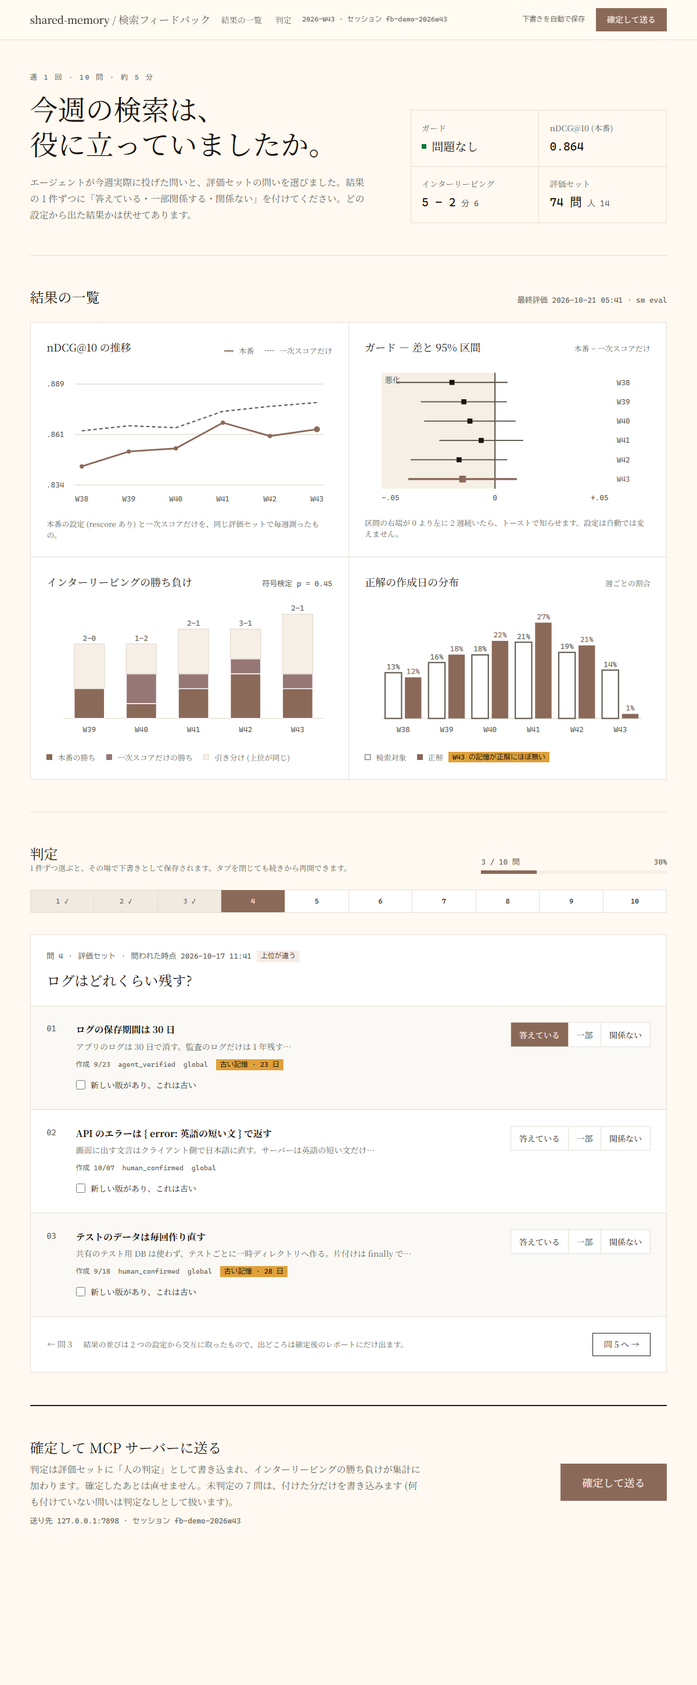
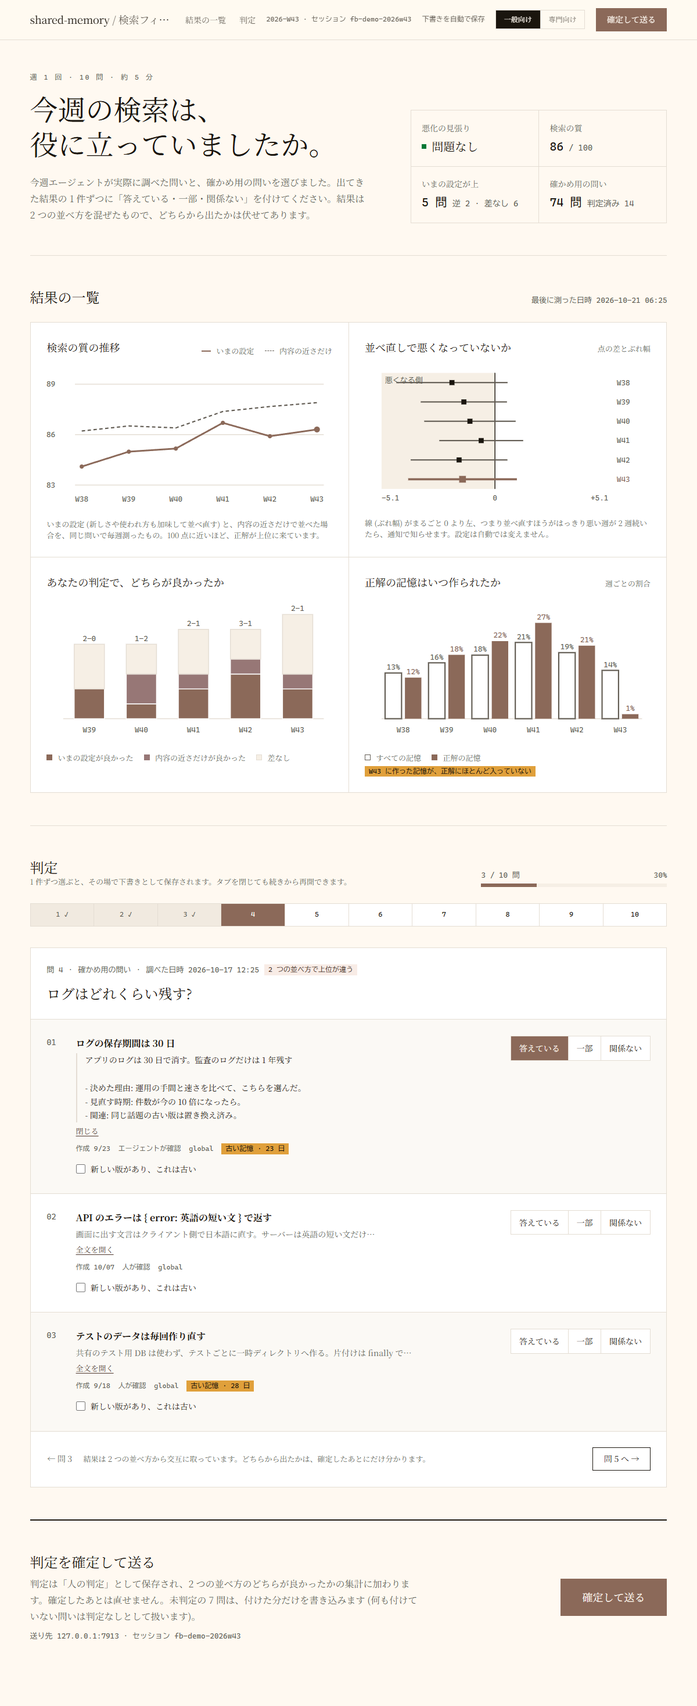
トーストとレポートを一般向けの言葉にし、README を新しい画面に合わせる
- sm eval のトースト: 検索の質を 100 点満点で、悪化の見張り・設定の見直しの要否を専門用語なしで出す
- sm feedback のトースト: 判定の依頼と目安の時間を出す
- レポートの冒頭に一般向けの「まとめ」を足す (詳しい数値はその下にそのまま)
- README (日本語・英語) に一般向け・専門向けの切り替えと全文の開閉を書き、画面のキャプチャを撮り直す
- 抜粋が「…」で終わっているときは、全文の有無で「…」を重ねない

diff --git a/packages/core/src/eval-report.ts b/packages/core/src/eval-report.ts
@@ -40,11 +40,55 @@ function primaryBetter(
     .slice(0, WORSE_LIMIT);
 }
 
-/** 人が読む Markdown のレポート */
+// ---- 一般向けの言い換え (トーストとレポートの冒頭のまとめで使う) ----
+// 本番 → いまの設定、一次スコアだけ → 内容の近さだけ、nDCG@10 → 検索の質 (100 点満点)、
+// 95% 区間 → ぶれ幅、ガード → 見張り。フィードバックの画面の一般向けと同じ言葉にそろえる。
+
+/** 0〜1 の値を 100 点満点の整数にする */
+export function points(x: number): number {
+  return Math.round(x * 100);
+}
+
+/** 差を点で (小数 1 桁、符号付き) */
+function pointsDiff(x: number): string {
+  const v = Math.abs(x * 100).toFixed(1);
+  return (x > 0 ? "+" : x < 0 ? "−" : "±") + v + " 点";
+}
+
+/** 見張り (ガード) の判定を一般向けの言葉にする */
+export function plainGuard(run: Pick<EvalRun, "guard">): string {
+  if (run.guard.alert) return "悪くなっている (2 週続けて)";
+  if (run.guard.worse) return "悪化の兆し (今週だけ)";
+  return "問題なし";
+}
+
+/** 見直す条件を一般向けの言葉にする */
+export function plainReview(run: Pick<EvalRun, "review">): string {
+  return run.review.ready ? "検討の時期 (条件がそろった)" : "まだ早い";
+}
+
+/** 一般向けのまとめ (Markdown の箇条書きの中身) */
+export function plainSummaryLines(run: EvalRun): string[] {
+  const effect =
+    run.diff.lo > 0 ? "良くなっている" : run.diff.hi < 0 ? "悪くなっている" : "はっきりした差はない";
+  return [
+    `検索の質 (100 点満点、上位 10 件に正解がどれだけ上の方に来たか): いまの設定 ${points(run.production.ndcg10)} 点 / 内容の近さだけ ${points(run.primary.ndcg10)} 点`,
+    `新しさや使われ方で並べ直した効果: ${effect} (差 ${pointsDiff(run.diff.mean)}、ぶれ幅 ${pointsDiff(run.diff.lo)} 〜 ${pointsDiff(run.diff.hi)})`,
+    `並べ直しで悪くなっていないかの見張り: ${plainGuard(run)}。設定は自動では変えない`,
+    `あなたの判定 (累計): いまの設定が良かった ${run.interleave.wins} 問 / 内容の近さだけが良かった ${run.interleave.losses} 問 / 差なし ${run.interleave.ties} 問`,
+    `並べ直しの設定の見直し: ${plainReview(run)} (人が判定した問い ${run.review.human_n} / 150 問)`,
+  ];
+}
+
+/** 人が読む Markdown のレポート。冒頭に一般向けのまとめ、そのあとに専門向けの詳しい数値 */
 export function renderReport(run: EvalRun, perQuestion: PerQuestion[], questions: EvalQuestion[]): string {
   const L: string[] = [];
   L.push(`# 評価レポート (${run.at})`, "");
   L.push(`正解のある問い: ${run.n} 件`, "");
+
+  L.push("## まとめ", "");
+  for (const line of plainSummaryLines(run)) L.push(`- ${line}`);
+  L.push("", "以下は専門向けの詳しい数値 (本番 = いまの設定、一次スコアだけ = 内容の近さだけ)。", "");
 
   L.push("## 指標 (問いの平均)", "");
   L.push("| 設定 | nDCG@10 | Recall@5 | MRR@10 |", "| --- | --- | --- | --- |");

diff --git a/packages/core/test/eval-report.test.ts b/packages/core/test/eval-report.test.ts
@@ -188,3 +188,26 @@ test("summaryLines: 数行の要約に指標・ガード・インターリービ
   const alert = summaryLines(baseRun({ guard: { worse: true, alert: true, reason: "理由のダミー" } })).join("\n");
   assert.match(alert, /ガード: 警告あり \(理由のダミー\)/);
 });
+
+test("renderReport: 冒頭に一般向けのまとめ (点数・並べ直しの効果・見張り・判定・見直し) があり、詳しい数値より前に来る", () => {
+  const md = renderReport(baseRun(), [], []);
+  const head = md.split("## 指標 (問いの平均)")[0]!;
+  assert.match(head, /## まとめ/);
+  assert.match(head, /いまの設定 81 点 \/ 内容の近さだけ 70 点/);
+  assert.match(head, /並べ直した効果: 良くなっている \(差 \+11\.1 点、ぶれ幅 \+2\.3 点 〜 \+20\.5 点\)/);
+  assert.match(head, /見張り: 問題なし/);
+  assert.match(head, /いまの設定が良かった 9 問 \/ 内容の近さだけが良かった 4 問 \/ 差なし 2 問/);
+  assert.match(head, /見直し: まだ早い \(人が判定した問い 40 \/ 150 問\)/);
+  const summary = head.split("## まとめ")[1]!.split("以下は専門向け")[0]!;
+  assert.doesNotMatch(summary, /nDCG|ガード|本番|一次スコア|インターリービング|95%/);
+
+  const bad = renderReport(
+    baseRun({ diff: { mean: -0.05, lo: -0.08, hi: -0.01, win: 1, lose: 5, tie: 0 }, guard: { worse: true, alert: true, reason: "x" } }),
+    [],
+    [],
+  );
+  assert.match(bad, /並べ直した効果: 悪くなっている \(差 −5\.0 点/);
+  assert.match(bad, /見張り: 悪くなっている \(2 週続けて\)/);
+  const unclear = renderReport(baseRun({ diff: { mean: 0, lo: -0.02, hi: 0.02, win: 0, lose: 0, tie: 12 } }), [], []);
+  assert.match(unclear, /並べ直した効果: はっきりした差はない \(差 ±0\.0 点/);
+});

diff --git a/packages/indexer/test/feedback-cli.test.ts b/packages/indexer/test/feedback-cli.test.ts
@@ -267,15 +267,22 @@ test("openCommand: Windows は cmd /c start \"\" \"<url>\"、macOS は open、Li
   assert.deepEqual(openCommand(url, "linux"), { file: "xdg-open", args: [url], verbatim: false });
 });
 
-test("evalNotice: ガードの判定・本番の nDCG@10・見直す条件を本文にする", () => {
+test("evalNotice: 見張りの判定・検索の質 (100 点満点)・見直す条件を、専門用語を使わずに本文にする", () => {
   const run = {
     production: { ndcg10: 0.71234, recall5: 0, mrr10: 0 },
     guard: { worse: true, alert: true, reason: "dummy" },
     review: { ready: false },
   } as unknown as EvalRun;
   const n = evalNotice(run);
-  assert.match(n.body, /ガード: 警告あり/);
-  assert.match(n.body, /本番 nDCG@10 0\.712/);
-  assert.match(n.body, /見直す条件: そろっていない/);
+  assert.match(n.body, /検索の質 71 点 \(100 点満点\)/);
+  assert.match(n.body, /悪化の見張り: 悪くなっている \(2 週続けて\)/);
+  assert.match(n.body, /設定の見直し: まだ早い/);
+  assert.match(n.body, /レポートを確かめてください/);
+  assert.doesNotMatch(n.body, /nDCG|ガード|本番|一次スコア/);
   assert.equal(n.url, undefined);
+
+  const ok = evalNotice({ ...run, guard: { worse: false, alert: false, reason: null }, review: { ready: true } } as unknown as EvalRun);
+  assert.match(ok.body, /悪化の見張り: 問題なし/);
+  assert.match(ok.body, /設定の見直し: 検討の時期/);
+  assert.doesNotMatch(ok.body, /レポートを確かめて/);
 });

diff --git a/packages/indexer/src/notify.ts b/packages/indexer/src/notify.ts
@@ -3,7 +3,7 @@
 // (呼び出し側が標準出力に出す)。
 import { execFile, spawn } from "node:child_process";
 import { fileURLToPath } from "node:url";
-import type { EvalRun } from "@shared-memory/core";
+import { plainGuard, plainReview, points, type EvalRun } from "@shared-memory/core";
 
 export type Notice = { title: string; body: string; url?: string };
 
@@ -65,12 +65,14 @@ export function openUrl(url: string): Promise<boolean> {
   });
 }
 
-/** sm eval --notify の本文: ガードの判定・本番の nDCG@10・見直す条件 */
+/**
+ * sm eval --notify の本文: 見張り (ガード) の判定・検索の質 (本番の nDCG@10 を 100 点満点で)・見直す条件。
+ * 専門用語を使わない言葉にする (フィードバックの画面の一般向けと同じ言い換え)
+ */
 export function evalNotice(run: EvalRun): Notice {
-  const guard = run.guard.alert ? "警告あり" : "警告なし";
-  const review = run.review.ready ? "そろっている" : "そろっていない";
+  const check = run.guard.alert ? "。レポートを確かめてください" : "";
   return {
-    title: "shared-memory: 週の評価",
-    body: `ガード: ${guard} / 本番 nDCG@10 ${run.production.ndcg10.toFixed(3)} / 見直す条件: ${review}`,
+    title: "shared-memory: 今週の検索の測定",
+    body: `検索の質 ${points(run.production.ndcg10)} 点 (100 点満点) / 悪化の見張り: ${plainGuard(run)} / 設定の見直し: ${plainReview(run)}${check}`,
   };
 }

diff --git a/packages/indexer/src/cli.ts b/packages/indexer/src/cli.ts
@@ -245,8 +245,8 @@ const COMMANDS: Record<string, Command> = {
       const base = { status: "created", session_id: r.session.id, questions: n };
       if (args.notify) {
         const ok = await notify({
-          title: "shared-memory: 今週の判定",
-          body: `判定する問いが ${n} 件あります。クリックで画面を開きます`,
+          title: "shared-memory: 今週の検索の判定",
+          body: `今週の検索結果が役に立ったか、${n} 問の判定をお願いします (約 ${Math.max(1, Math.round(n / 2))} 分)。クリックで画面を開きます`,
           url: r.url,
         });
         // 定期タスクは標準出力をログに残すので、知らせられたときは URL (合言葉入り) を出さない

diff --git a/packages/mcp-server/static/feedback.js b/packages/mcp-server/static/feedback.js
@@ -688,7 +688,7 @@
       const openKey = it.qid + "\u0000" + c.id;
       const isOpen = hasMore && expanded.has(openKey);
       const bodyId = name + "-body";
-      const excerptEl = h("p", { class: "result-excerpt", hidden: isOpen }, c.excerpt + (hasMore ? "…" : ""));
+      const excerptEl = h("p", { class: "result-excerpt", hidden: isOpen }, c.excerpt + (hasMore && !c.excerpt.endsWith("…") ? "…" : ""));
       const fullEl = hasMore ? h("div", { class: "result-body", id: bodyId, hidden: !isOpen }, full) : null;
       let toggle = null;
       if (hasMore) {

diff --git a/docs/design/interfaces.md b/docs/design/interfaces.md
@@ -262,7 +262,7 @@ eval:
 | `gc` | `tiers.ts` の `runGc` |
 | `import <file.jsonl> [--dry-run] [--source-agent <a>]` | `import.ts` |
 | `search <query> [--scope s] [--limit n]` | `searchMemories` (動作確認用)。1 行表示は `N. title [id] (scope, score x.xxx, YYYY-MM-DD 作成)` で、`freshness.stale` なら末尾に ` [古い記憶: N 日前]`。`logSearch` (`source: "cli"`) で記録する |
-| `eval [--notify]` | `eval-command.ts` の `runEvalCommand`。`readEvalSet` (空なら「評価セットがありません…」で終了コード 1) → 本番 (`cfg`) と一次スコアだけ (`primaryOnlyConfig(cfg)`) の Searcher (`searchMemories` を `asOf` 付きで直接呼び、上位 10 件の id) → `readHistory`・`interleaveTotals` → `runEvaluation` → `appendHistory` → `<evalDir>/reports/<ローカルの YYYY-MM-DD>.md` に `renderReport` を書く。標準出力は `summaryLines` とレポートの場所 (`--json` なら `EvalRun`)。ガードが警告でも終了コードは 0。`--notify` で `notify.ts` の `notify(evalNotice(run))` (Windows のトースト。ガード・本番の nDCG@10・見直す条件)。アクセスもログも書かない |
+| `eval [--notify]` | `eval-command.ts` の `runEvalCommand`。`readEvalSet` (空なら「評価セットがありません…」で終了コード 1) → 本番 (`cfg`) と一次スコアだけ (`primaryOnlyConfig(cfg)`) の Searcher (`searchMemories` を `asOf` 付きで直接呼び、上位 10 件の id) → `readHistory`・`interleaveTotals` → `runEvaluation` → `appendHistory` → `<evalDir>/reports/<ローカルの YYYY-MM-DD>.md` に `renderReport` を書く。標準出力は `summaryLines` とレポートの場所 (`--json` なら `EvalRun`)。ガードが警告でも終了コードは 0。`--notify` で `notify.ts` の `notify(evalNotice(run))` (Windows のトースト。`plainGuard`・`points`・`plainReview` で、専門用語を使わずに見張りの判定・検索の質の点数・見直しの要否)。アクセスもログも書かない |
 | `eval import-lab <file.jsonl>` | `importLabCommand`。`fromLabEvalJsonl` で読み、`questionKey` が既にある問いは飛ばして `writeEvalSet`。取り込んだ数・飛ばした数・総数を出す |
 | `feedback [--notify] [--days n]` | `feedback-command.ts` の `runFeedbackCommand`。過去 `days` 日 (既定 7) の `readLogs` のうち `source: "mcp"` の search と `readEvalSet` から `createFeedbackSession` (本番と一次スコアだけの `SessionSearcher`、`supersededAtMap`)。材料が無ければ「今週は判定する問いがありません」で終了コード 0、セッションは作らない。URL は `http://<mcp.host>:<mcp.port>/feedback/<id>?t=<token>`。既定はブラウザーで開いて (`openUrl`) 終わる。`--notify` はトーストで知らせ、知らせられたときは URL (合言葉入り) を出さない。知らせられなければ (Windows 以外を含む) URL を出す。`readLogs` 以外の StatsStore は使わない |
 
@@ -281,18 +281,19 @@ eval:
 
 ### フィードバックの道 (`packages/mcp-server/src/feedback-routes.ts`)
 
-`/mcp` と同じポートで、`handleFeedback(req, res, url, { dir: evalDir(cfg), staticDir })` が `/feedback/` で始まる道を受け持つ。Host ヘッダーの確認は `/mcp` と同じく先に効く。CORS は開けない (画面と受け口が同じオリジン)。**MCP のツールとしては公開しない** (エージェントが「人の判定」を名乗って書けないようにするため)。セッションを作る道は持たない (作るのは CLI の `createFeedbackSession` だけ)。
+`/mcp` と同じポートで、`handleFeedback(req, res, url, { dir: evalDir(cfg), staticDir, readBodies })` が `/feedback/` で始まる道を受け持つ。Host ヘッダーの確認は `/mcp` と同じく先に効く。CORS は開けない (画面と受け口が同じオリジン)。**MCP のツールとしては公開しない** (エージェントが「人の判定」を名乗って書けないようにするため)。セッションを作る道は持たない (作るのは CLI の `createFeedbackSession` だけ)。
 
 | 道 | 応答 |
 | --- | --- |
 | `GET /feedback/<id>` | 画面の HTML (`static/feedback.html`)。`Content-Security-Policy` は `default-src 'self'` などで外部の読み込みを許さない |
 | `GET /feedback/static/<feedback.html\|feedback.css\|feedback.js>` | 静的ファイル (許可リストの 3 つだけ。ほかは 404) |
-| `GET /feedback/<id>/data?t=<token>` | `{ session: publicView(s), dashboard: { history: EvalRun[] (最新 12 件、古い順), interleave: { wins, losses, ties, sessions, p }, created_dist: 最新の EvalRun の created_dist \| null, eval_set: { questions, human } } }` |
+| `GET /feedback/<id>/data?t=<token>` | `{ session: publicView(s) (カードに body を足したもの), dashboard: { history: EvalRun[] (最新 12 件、古い順), interleave: { wins, losses, ties, sessions, p }, created_dist: 最新の EvalRun の created_dist \| null, eval_set: { questions, human } } }` |
 | `POST /feedback/<id>/draft?t=<token>` | 本文 `{ "draft": Draft }` → `saveDraft` → 200 `{ "status": "ok" }` |
 | `POST /feedback/<id>/submit?t=<token>` | 本文 `{ "draft"?: Draft }` (無ければ保存済みの下書き) → `confirmSession` → 200 `{ "status": "ok", "written": n }` |
 
 - 失敗: `<id>` が `/^[A-Za-z0-9_-]{1,64}$/` でないかセッションが無い 404、合言葉が違う 403 (比較は `timingSafeEqual`)、確定済み 409、Content-Type が `application/json` でない 415、本文が JSON でないか形が違う 400、大きすぎる 413、メソッド違い 405。応答はすべて `Cache-Control: no-store`。
 - 画面とデータの読み出しはアクセスもログも書かない (StatsStore を使わない)。
+- `readBodies?: (ids: readonly string[]) => Promise<ReadonlyMap<string, string>>` … あれば GET data のときにカードへ `body` (記憶の本文、`BODY_MAX_CHARS` = 4,000 字で切って「…」) を足す。セッションのファイルには入れない。app.ts は `scanMemories(cfg)` でファイルを直接読む。投げたら警告を出して body なしで返す。画面は body が抜粋より長いカードにだけ「全文を開く」を出す。
 
 ## 13. `tiers.ts` (decay / gc)
 
@@ -365,7 +366,8 @@ eval:
 
 ファイルには書かない (書くのは CLI)。
 
-- `export function renderReport(run: EvalRun, perQuestion: PerQuestion[], questions: EvalQuestion[]): string` … 人が読む Markdown。指標の表、差と 95% 区間、ガード、インターリービング、鮮度が効く問い、作成日の分布、見直す条件、注意 (アクセスの項の漏れなど)、本番より一次スコアだけが良かった問い (差の大きい順に最大 10 件) を出す。
+- `export function renderReport(run: EvalRun, perQuestion: PerQuestion[], questions: EvalQuestion[]): string` … 人が読む Markdown。冒頭に「## まとめ」(`plainSummaryLines` の一般向けの箇条書き)、その下に専門向けの数値として、指標の表、差と 95% 区間、ガード、インターリービング、鮮度が効く問い、作成日の分布、見直す条件、注意 (アクセスの項の漏れなど)、本番より一次スコアだけが良かった問い (差の大きい順に最大 10 件) を出す。
+- `export function plainSummaryLines(run: EvalRun): string[]` … 一般向けのまとめ (検索の質を 100 点満点で、並べ直しの効果と、ぶれ幅、見張り、あなたの判定の累計、見直しの要否)。本番 → いまの設定、一次スコアだけ → 内容の近さだけ、と言い換え、nDCG・ガード・95% などの語を使わない。`points(x)` (0〜1 → 100 点満点の整数)、`plainGuard(run)` (悪くなっている (2 週続けて) / 悪化の兆し (今週だけ) / 問題なし)、`plainReview(run)` (検討の時期 / まだ早い) も export する。
 - `export function summaryLines(run: EvalRun): string[]` … 標準出力用の数行 (指標、差と区間、ガード、インターリービング、鮮度が効く問い、見直す条件)。
 
 ## 19. `feedback-session.ts` (フィードバックのセッション)

diff --git a/README.md b/README.md
@@ -509,6 +509,7 @@ MCP の `search` と `get`、CLI の `search` は、統計と同じ SQLite (`sta
 - 各問いは、問われた時点の状態で測る。その時点より後に作られた記憶は検索対象から外し、置き換えの状態と時間減衰の「今」もその時点に合わせる。アクセス回数は評価の時点の値を使う (レポートに「アクセスの項は漏れを含む」と書く)。
 - 出すもの: 構成ごとの nDCG@10・Recall@5・MRR@10、問いごとの nDCG@10 の差 (本番 − 一次スコアだけ) とブートストラップ (5,000 回) の 95% 区間、鮮度が効く問いだけの nDCG@10 と「新しい版が古い版より上に来た割合」、正解と検索対象の作成日の分布 (週ごと)、パラメーターの調整を見直す条件の判定。
 - レポートを `reports/` に書き、履歴に 1 行足し、要約とレポートの場所を標準出力に出す。`--json` なら実行の結果を JSON で出す。
+- レポートの冒頭の「まとめ」は専門用語を使わずに書く (検索の質を 100 点満点の点数で、本番を「いまの設定」、一次スコアだけを「内容の近さだけ」、95% 区間を「ぶれ幅」と呼ぶ)。その下に、上の指標を専門向けの詳しい数値として載せる。
 
 ガードは、rescore が一次スコアだけの順位より有意に悪くしていないかを見張る。
 
@@ -521,7 +522,7 @@ MCP の `search` と `get`、CLI の `search` は、統計と同じ SQLite (`sta
 ### 週 1 回の流れ
 
 1. Windows では、`scripts/register-tasks.ps1` が登録する `SharedMemory-Eval` が、毎週日曜 10:00 (gc の 30 分後) に `eval --notify` と `feedback --notify` を続けて走らせる。
-2. `eval --notify` が評価し、ガードの判定・本番の nDCG@10・見直す条件をトーストで知らせる。
+2. `eval --notify` が評価し、悪化の見張り (ガード) の判定・検索の質 (本番の nDCG@10 を 100 点満点で)・設定の見直しの要否を、専門用語を使わない言葉でトーストに出す。
 3. `feedback --notify` が、過去 7 日の MCP の検索ログと評価セットから判定する問いを選んでセッションを作り、トーストで知らせる。トーストをクリックすると画面がブラウザーで開く。
 4. 画面で判定し、「確定して送る」を押す。
 
@@ -531,13 +532,25 @@ MCP の `search` と `get`、CLI の `search` は、統計と同じ SQLite (`sta
 
 ### フィードバックの画面
 
-![フィードバックの画面。上に要約 (ガード・本番の nDCG@10・インターリービングの累計・評価セットの問い数) とグラフ 4 つ、下に 10 問の判定の一覧と、1 問分の結果のカード (答えている / 一部 / 関係ない のボタン) が並ぶ](docs/assets/feedback-screen.png)
+![フィードバックの画面 (一般向けの表示)。右上に一般向け・専門向けの切り替え。上に要約 (悪化の見張り・検索の質の点数・いまの設定が上だった問いの数・確かめ用の問いの数) とグラフ 4 つ、下に 10 問の判定の一覧と、1 問分の結果のカード (答えている / 一部 / 関係ない のボタン)。1 件目のカードは全文を開いている](docs/assets/feedback-screen.png)
 
-画面の例 (ダミーのデータ)。MCP サーバーのプロセスが、`/mcp` と同じポートの `/feedback/<セッション ID>?t=<合言葉>` で配る。外部の読み込みはせず、記憶の本文を外に出さない。
+画面の例 (ダミーのデータ、一般向けの表示で 1 件目の全文を開いたところ)。MCP サーバーのプロセスが、`/mcp` と同じポートの `/feedback/<セッション ID>?t=<合言葉>` で配る。外部の読み込みはせず、記憶の本文を外に出さない。
 
+- 上の帯で、表示を「一般向け」と「専門向け」から選べる (既定は一般向け。選んだほうはブラウザーが覚える)。一般向けは専門用語を言い換え、専門向けは指標の名前のまま出す。
+
+  | 専門向け | 一般向け |
+  | --- | --- |
+  | 本番 / 一次スコアだけ | いまの設定 / 内容の近さだけ |
+  | nDCG@10 (0.864) | 検索の質 (86 / 100 点) |
+  | ガード / 95% 区間 | 悪化の見張り / ぶれ幅 |
+  | インターリービングの勝ち・負け・引き分け | いまの設定が良かった・内容の近さだけが良かった・差なし |
+  | 評価セット / 実クエリ / 問われた時点 | 確かめ用の問い / 今週の問い / 調べた日時 |
+
+  一般向けでは、符号検定の p 値とガードの理由を出さない。
 - 上に、ガード・本番の nDCG@10・インターリービングの累計・評価セットの問い数の要約と、グラフ 4 つ (nDCG@10 の推移、ガードの差と 95% 区間、インターリービングの勝ち負け、正解の作成日の分布) が並ぶ。
 - 判定は 1 回 10 問まで。その週にエージェントが実際に投げた問いのうち、2 つの構成で上位 10 件が違うものを優先し、足りなければ評価セットの人の判定が無い問いで埋める。
 - 結果は、本番と一次スコアだけの順位を交互に混ぜた 10 件 (インターリービング) で、どちら由来かは伏せる。カードごとに「答えている / 一部 / 関係ない」を選び、必要なら「新しい版があり、これは古い」に印を付ける。
+- カードの抜粋は検索の時点で 160 字に切られている。続きがあるカードには「全文を開く」が付き、開くと記憶の本文 (4,000 字まで) が出る。全文は、画面がデータを読むときに MCP サーバーが記憶のファイルから足す (セッションのファイルには入れない)。
 - 1 件選ぶたびに下書きとして保存され、タブを閉じても続きから再開できる。
 - 「確定して送る」で、判定が評価セットに出どころ「人」(セッション ID と時刻つき) として書かれ、インターリービングの勝ち負けがセッションに記録される。未判定の問いは判定なしとして扱う。確定したあとは直せない。
 - URL の合言葉 (`t=`) が合わない要求は拒む。セッションを作る HTTP の道は無く、作れるのは CLI だけ。判定の書き込みは MCP のツールにもしていないので、エージェントが人の判定を名乗って書くことはできない。URL には合言葉が入るので、人に渡さない。

diff --git a/README.en.md b/README.en.md
@@ -509,6 +509,7 @@ The evaluation set, reports, run history and feedback sessions all live in the e
 - Each question is measured as of the time it was asked. Memories created after that time are excluded from the candidates, and both the supersede state and the "now" used for time decay are set to that time. Access counts use the values at evaluation time (the report notes that the access term contains leakage).
 - What it reports: nDCG@10, Recall@5 and MRR@10 for each configuration; the per-question nDCG@10 difference (production − primary score only) with a bootstrap (5,000 resamples) 95% interval; nDCG@10 on freshness-sensitive questions alone and the rate at which the newer version ranks above the older one; the creation-date distribution of relevant memories and of the corpus (by week); and whether the conditions for revisiting the parameters are met.
 - It writes a report under `reports/`, appends a line to the history, and prints a summary and the report location. With `--json`, it prints the run result as JSON.
+- The "まとめ" (summary) at the top of the report avoids jargon: search quality is shown as a score out of 100, production is called "the current settings", the primary score only is "content similarity only", and the 95% interval is "the margin of error". The detailed metrics above follow it for experts.
 
 The guard watches whether rescore makes the ranking significantly worse than the primary score alone.
 
@@ -521,7 +522,7 @@ The "revisit conditions" in the report read "yes" only when all three hold: (a) 
 ### The weekly round
 
 1. On Windows, `SharedMemory-Eval`, registered by `scripts/register-tasks.ps1`, runs `eval --notify` and then `feedback --notify` every Sunday at 10:00 (30 minutes after gc).
-2. `eval --notify` runs the evaluation and shows a toast with the guard result, the production nDCG@10 and the revisit conditions.
+2. `eval --notify` runs the evaluation and shows a toast, in plain words, with the guard result, the search quality (production nDCG@10 as a score out of 100) and whether it is time to revisit the settings.
 3. `feedback --notify` picks questions to judge from the last 7 days of MCP search logs and the evaluation set, creates a session and shows a toast. Clicking the toast opens the page in your browser.
 4. Judge the results on the page and press the confirm button.
 
@@ -531,13 +532,15 @@ The "revisit conditions" in the report read "yes" only when all three hold: (a) 
 
 ### The feedback page
 
-![The feedback page. At the top, a summary (guard, production nDCG@10, accumulated interleaving results, number of questions in the evaluation set) and four charts; below, the list of 10 questions to judge and the result cards for one question, each with "answers / partly / not related" buttons](docs/assets/feedback-screen.png)
+![The feedback page in the general view. A general / expert switch at the top right. At the top, a summary (degradation watch, search quality score, number of questions where the current settings won, number of check questions) and four charts; below, the list of 10 questions to judge and the result cards for one question, each with "answers / partly / not related" buttons. The first card has its full text expanded](docs/assets/feedback-screen.png)
 
-An example of the page (dummy data; the UI is in Japanese). The MCP server process serves it at `/feedback/<session ID>?t=<token>` on the same port as `/mcp`. It loads nothing from outside and never sends memory text anywhere.
+An example of the page (dummy data; the UI is in Japanese), in the general view with the first card's full text expanded. The MCP server process serves it at `/feedback/<session ID>?t=<token>` on the same port as `/mcp`. It loads nothing from outside and never sends memory text anywhere.
 
+- A switch in the top bar chooses between a "general" view (the default; the choice is remembered by the browser) that replaces jargon with plain words, and an "expert" view that keeps the metric names. For example, production / primary score only become "the current settings / content similarity only", nDCG@10 becomes "search quality" out of 100, the guard and its 95% interval become "degradation watch" and "margin of error", and interleaving wins / losses / ties become "current settings were better / content similarity was better / no difference". The general view hides the sign-test p-value and the guard's reason.
 - The top shows a summary of the guard, the production nDCG@10, the accumulated interleaving results and the number of questions in the evaluation set, plus four charts (nDCG@10 over time, the guard's difference with its 95% interval, interleaving wins and losses, and the creation-date distribution of relevant memories).
 - Up to 10 questions per session. Queries that agents actually issued that week come first, preferring those where the top 10 differ between the two configurations; any remaining slots are filled with questions from the evaluation set that have no human judgment yet.
 - The results are 10 items interleaved from the production ranking and the primary-score-only ranking, with their origin hidden. For each card, choose "answers / partly / not related", and if needed tick "a newer version exists; this one is outdated".
+- Card excerpts are cut to 160 characters at search time. Cards with more text get a "show full text" link that expands the memory body (up to 4,000 characters). The MCP server adds the full text from the memory files when the page loads its data; it is not stored in the session file.
 - Each choice is saved as a draft right away, so you can close the tab and pick up where you left off.
 - Pressing the confirm button writes your judgments into the evaluation set with source "human" (with the session ID and time) and records the interleaving wins and losses in the session. Unjudged questions are treated as having no judgment. Once confirmed, judgments cannot be changed.
 - Requests with a wrong token (`t=` in the URL) are rejected. There is no HTTP route that creates sessions; only the CLI can. Writing judgments is not exposed as an MCP tool either, so agents cannot pose as a human and write labels. The URL contains the token, so do not share it.
